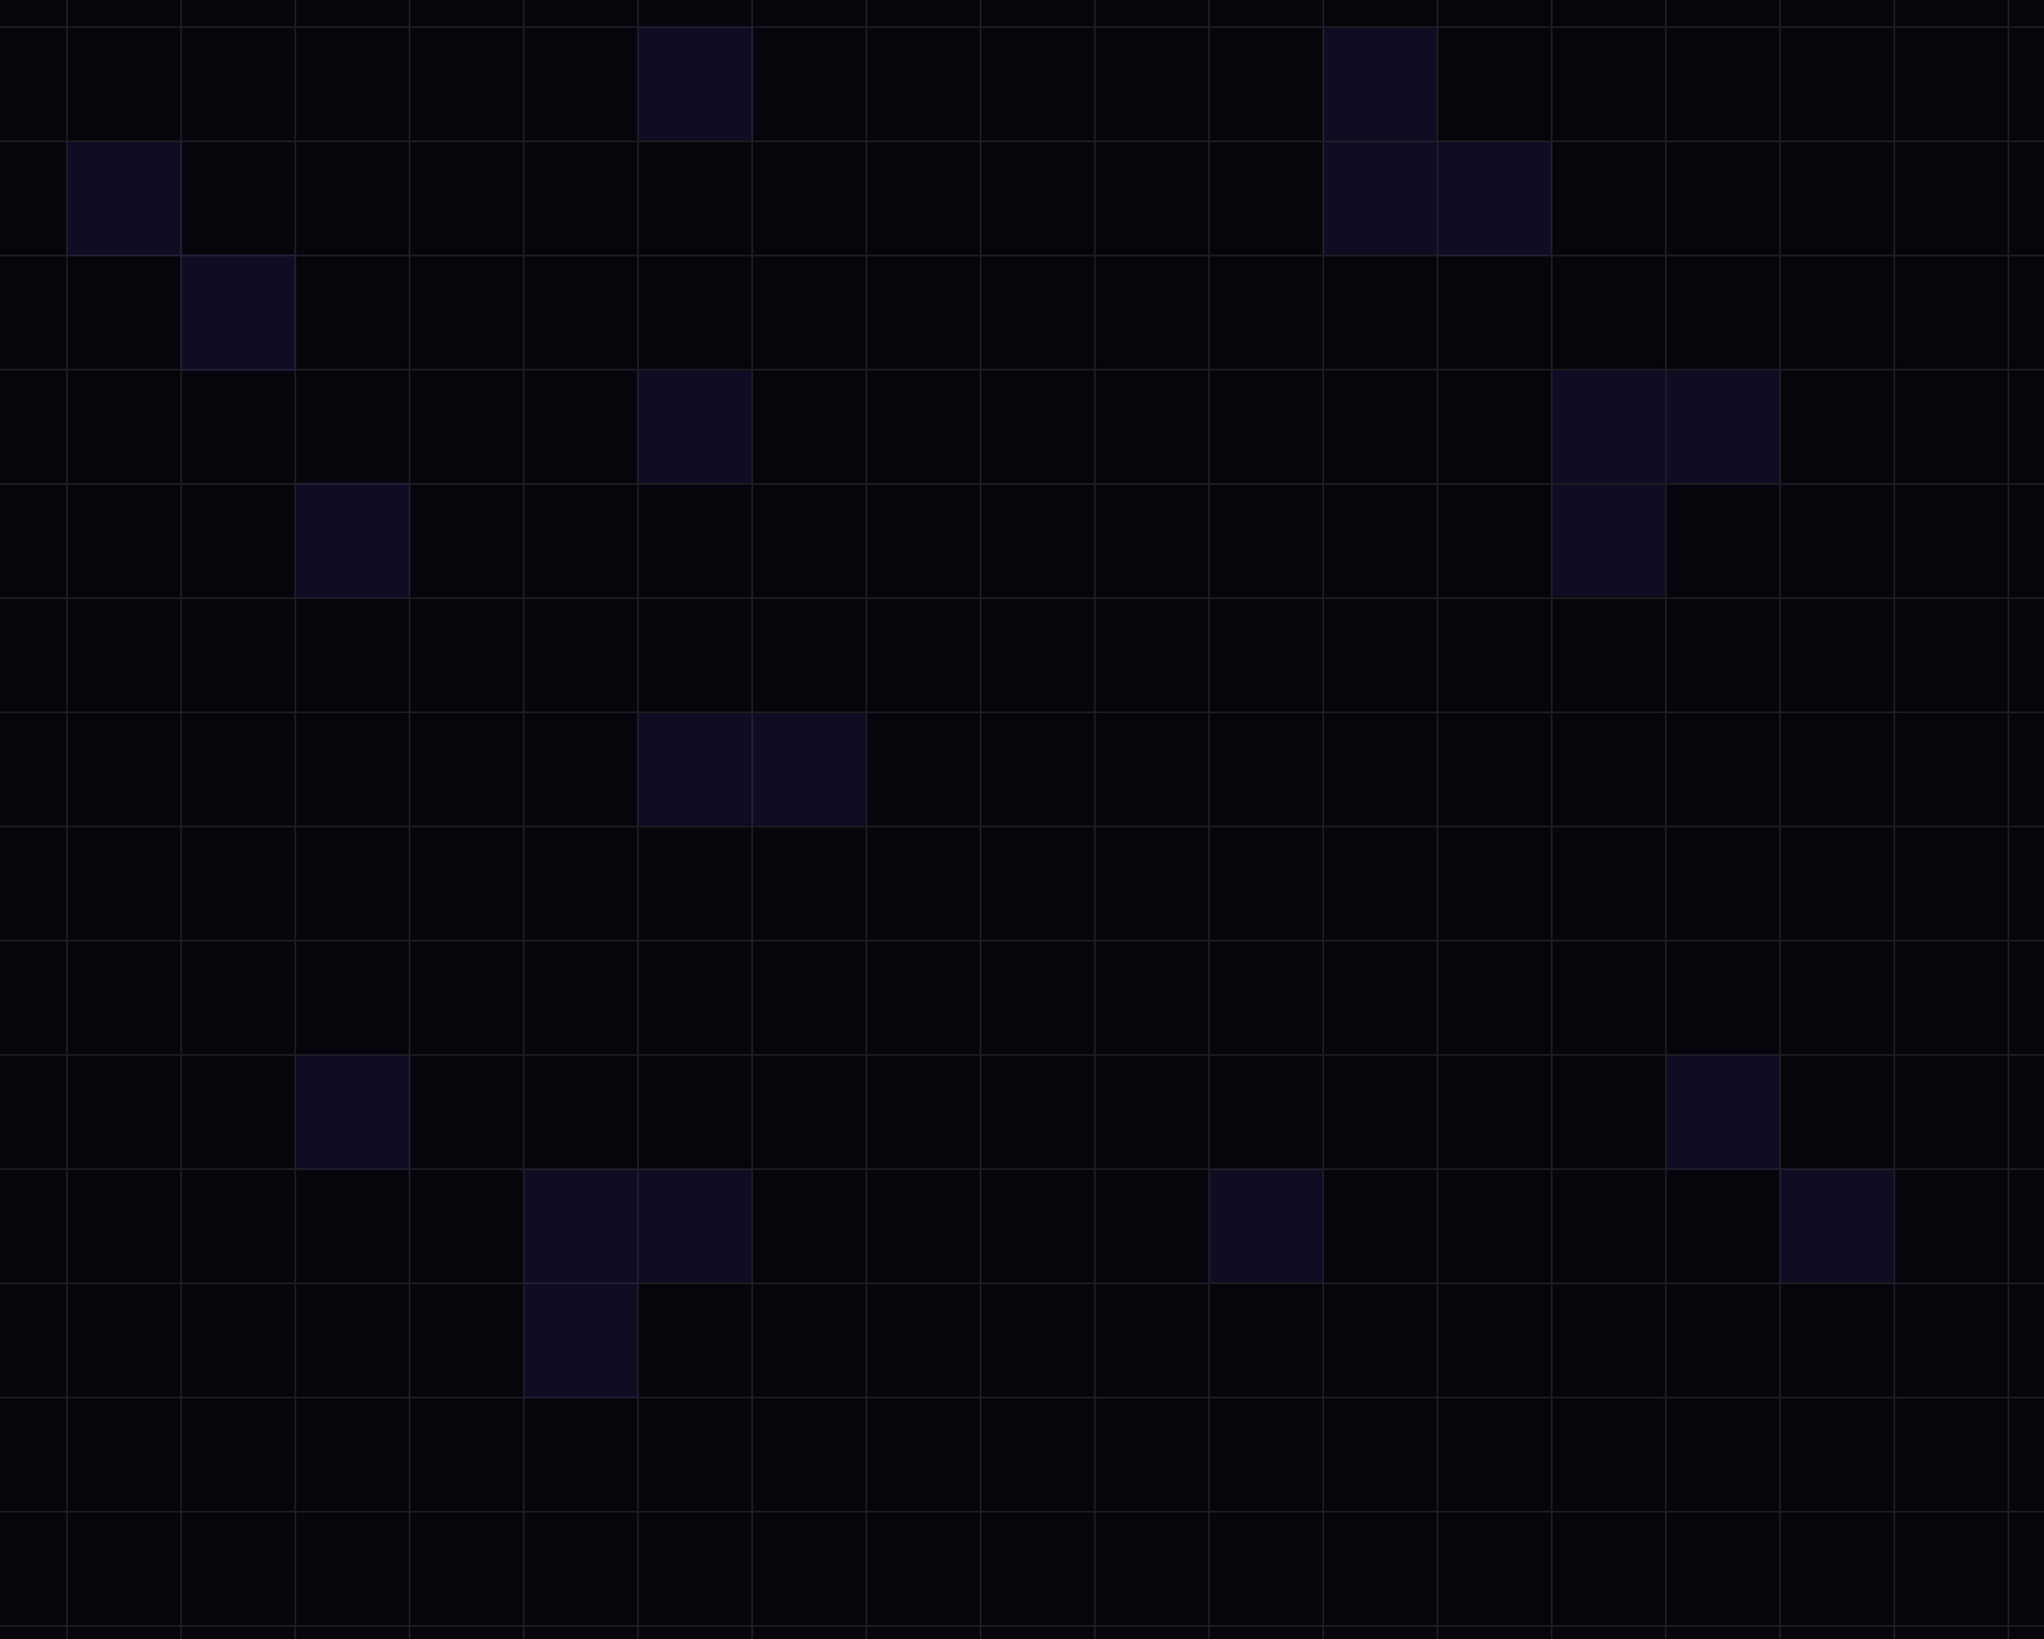
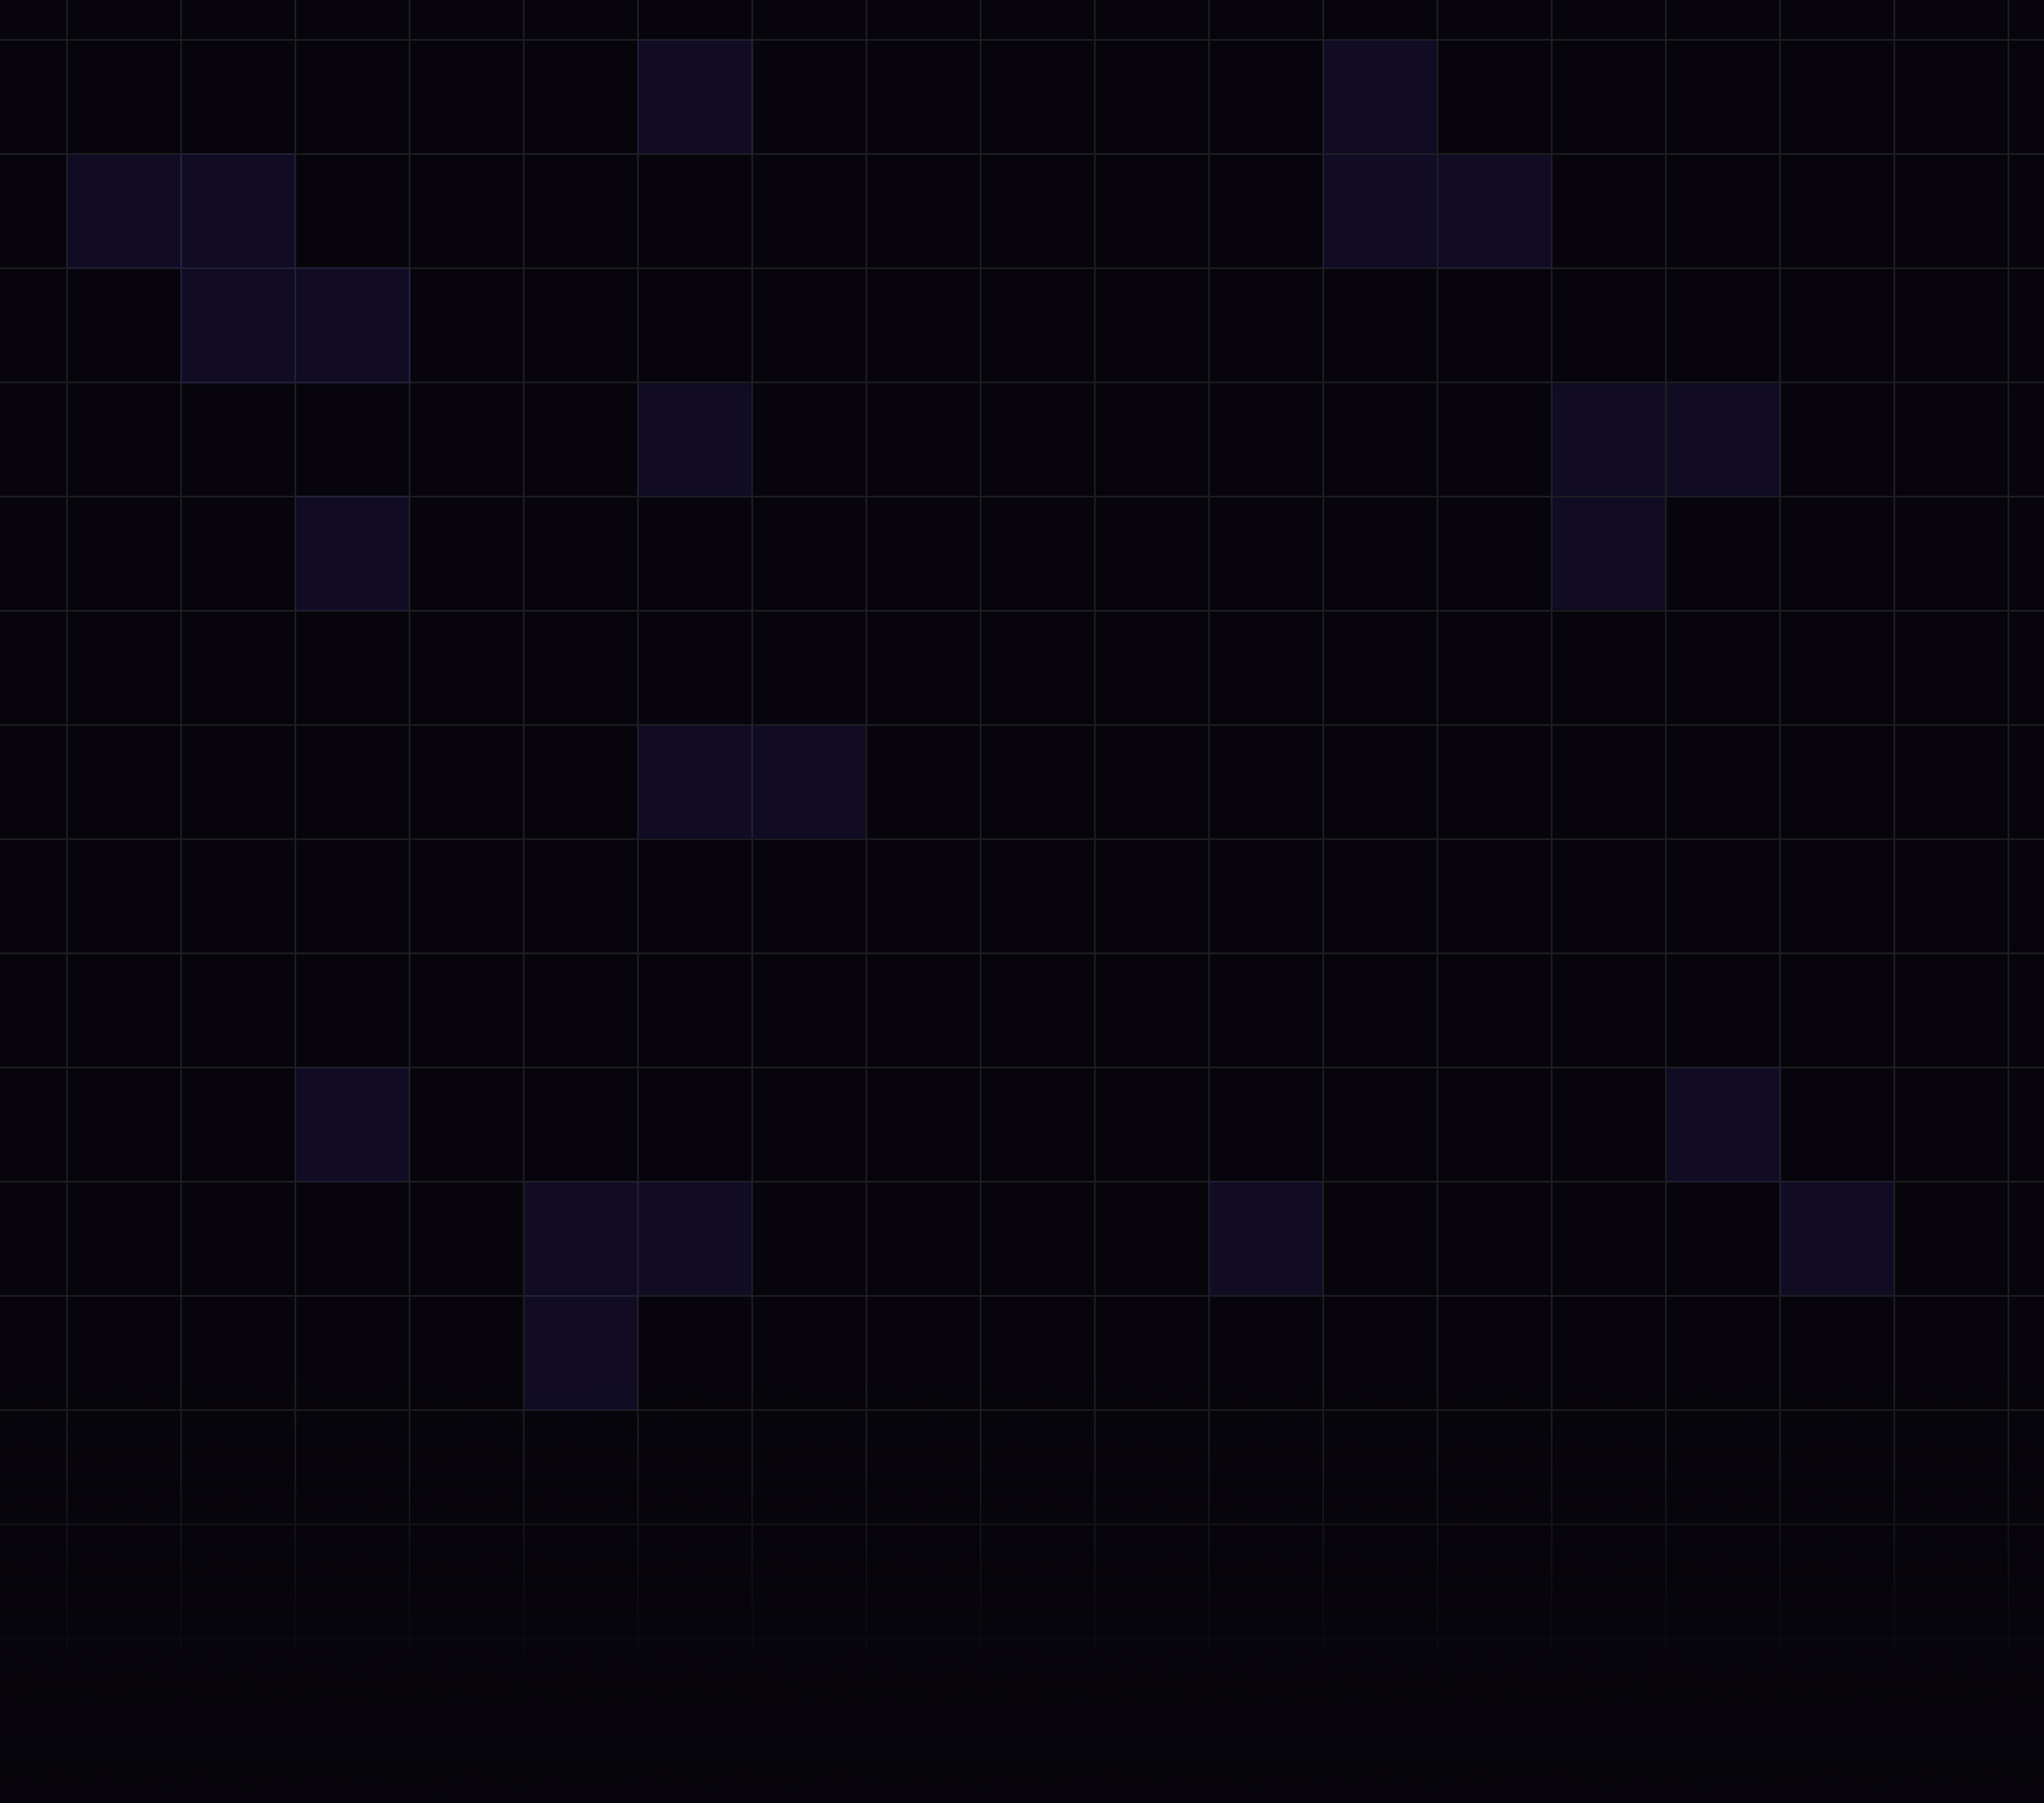
Edited sanity schemas and types

diff --git a/lib/sanity/queries.ts b/lib/sanity/queries.ts
@@ -1,0 +1,122 @@
+import { sanityClient } from './client'
+
+export interface SanitySkill {
+  _id: string
+  name: string
+}
+
+export interface SanityMember {
+  _id: string
+  name: string
+  role: string
+  company: string
+  avatar: string
+  twitter: string
+  skills: SanitySkill[]
+  achievements: {
+    icon: string
+    title: string
+    description: string
+    year: string
+  }[]
+  isFeatured: boolean
+  displayOrder: number
+}
+
+export interface SanityImageCard {
+  _id: string
+  title: string
+  image: string
+  displayOrder: number
+}
+
+export interface SanityFAQ {
+  _id: string
+  question: string
+  answer: string
+  displayOrder: number
+}
+
+// QUERIES
+const MEMBERS_QUERY = `*[_type == "member"] | order(displayOrder asc) {
+  _id,
+  name,
+  role,
+  company,
+  "avatar": avatar.asset->url,
+  twitter,
+  "skills": skills[]-> { _id, name },
+  achievements,
+  isFeatured,
+  displayOrder
+}`
+
+const FEATURED_MEMBERS_QUERY = `*[_type == "member" && isFeatured == true] | order(displayOrder asc) {
+  _id,
+  name,
+  role,
+  company,
+  "avatar": avatar.asset->url,
+  twitter,
+  "skills": skills[]-> { _id, name },
+  achievements,
+  isFeatured,
+  displayOrder
+}`
+
+const SKILLS_QUERY = `*[_type == "skill"] | order(name asc) {
+  _id,
+  name
+}`
+
+const IMAGE_CARDS_QUERY = `*[_type == "imageCard"] | order(displayOrder asc) {
+  _id,
+  title,
+  "image": image.asset->url + "?w=600&h=320&fit=crop&q=75&auto=format",
+  displayOrder
+}`
+
+const FAQ_QUERY = `*[_type == "faq"] | order(displayOrder asc) {
+  _id,
+  question,
+  answer,
+  displayOrder
+}`
+
+export async function getAllMembers(): Promise<SanityMember[]> {
+  return sanityClient.fetch(MEMBERS_QUERY)
+}
+
+export async function getFeaturedMembers(): Promise<SanityMember[]> {
+  return sanityClient.fetch(FEATURED_MEMBERS_QUERY)
+}
+
+export async function getAllSkills(): Promise<SanitySkill[]> {
+  return sanityClient.fetch(SKILLS_QUERY)
+}
+
+export async function getImageCards(): Promise<SanityImageCard[]> {
+  return sanityClient.fetch(IMAGE_CARDS_QUERY)
+}
+
+export async function getFAQs(): Promise<SanityFAQ[]> {
+  return sanityClient.fetch(FAQ_QUERY, {}, { next: { revalidate: 3600 } })
+}
+
+export function mapSanityMember(member: SanityMember, index: number) {
+  return {
+    id: index,
+    name: member.name,
+    role: member.role ?? '',
+    company: member.company ?? '',
+    avatar: member.avatar ?? '',
+    twitter: member.twitter ?? '',
+    skills: member.skills?.map((s) => s.name) ?? [],
+    achievements: member.achievements ?? [],
+    isFeatured: member.isFeatured ?? false,
+  }
+}
+
+export function mapSanityMembers(members: SanityMember[]) {
+  return members.map(mapSanityMember)
+}

diff --git a/sanity/schemaTypes/memberType.ts b/sanity/schemaTypes/memberType.ts
@@ -20,32 +20,26 @@ export const memberType = defineType({
     defineField({
       name: 'company',
       title: 'Company',
-      type: 'string',        // e.g. "Freelance"
+      type: 'string',
     }),
     defineField({
       name: 'avatar',
       title: 'Avatar',
       type: 'image',
-      options: { hotspot: true },   // lets you crop focal point
+      options: { hotspot: true }, 
       validation: Rule => Rule.required()
     }),
     defineField({
       name: 'twitter',
       title: 'Twitter / X Handle',
-      type: 'string',        // store as "@handle"
+      type: 'string',
       validation: Rule => Rule.required()
     }),
     defineField({
         name: 'skills',
         title: 'Skills',
         type: 'array',
-        of: [{ type: 'reference', to: [{ type: 'skill' }] }],
-      }),
-      defineField({
-        name: 'badges',
-        title: 'Badges',
-        type: 'array',
-        of: [{ type: 'reference', to: [{ type: 'badge' }] }],
+        of: [{ type: 'reference', to: [{ type: 'skill' }], validation: Rule => Rule.required()}],
       }),
     defineField({
       name: 'achievements',
@@ -55,9 +49,9 @@ export const memberType = defineType({
         {
           type: 'object',
           fields: [
-            defineField({ name: 'icon',        title: 'Icon (emoji)',   type: 'string' }),
+            defineField({ name: 'image',        title: 'Achievement Image (Optional)',   type: 'image', options: { hotspot: true} }),
             defineField({ name: 'title',       title: 'Title',          type: 'string', validation: Rule => Rule.required() }),
-            defineField({ name: 'description', title: 'Description',    type: 'text',   rows: 2 }),
+            defineField({ name: 'description', title: 'Description (Optional)',    type: 'text',   rows: 2 }),
             defineField({ name: 'year',        title: 'Year',           type: 'string' }),
           ],
           preview: {

diff --git a/sanity/schemaTypes/faqType.ts b/sanity/schemaTypes/faqType.ts
@@ -1,0 +1,37 @@
+import { defineField, defineType } from 'sanity'
+
+export const faqType = defineType({
+  name: 'faq',
+  title: 'FAQ',
+  type: 'document',
+  fields: [
+    defineField({
+      name: 'question',
+      title: 'Question',
+      type: 'string',
+      validation: Rule => Rule.required()
+    }),
+    defineField({
+      name: 'answer',
+      title: 'Answer',
+      type: 'text',
+      rows: 4,
+      validation: Rule => Rule.required()
+    }),
+    defineField({
+      name: 'displayOrder',
+      title: 'Display Order',
+      type: 'number',
+      description: 'Lower number = appears first',
+      initialValue: 0,
+    }),
+  ],
+  preview: {
+    select: { title: 'question', subtitle: 'answer' }
+  },
+  orderings: [{
+    title: 'Display Order',
+    name: 'displayOrderAsc',
+    by: [{ field: 'displayOrder', direction: 'asc' }]
+  }]
+})

diff --git a/sanity.config.ts b/sanity.config.ts
@@ -9,7 +9,6 @@ import {defineConfig} from 'sanity'
 import {structureTool} from 'sanity/structure'
 import {memberType}from './sanity/schemaTypes/memberType'
 import { skillType } from './sanity/schemaTypes/skillType'
-import { badgeType } from './sanity/schemaTypes/badgeType'
 
 // Go to https://www.sanity.io/docs/api-versioning to learn how API versioning works
 import {apiVersion, dataset, projectId} from './sanity/env'
@@ -28,4 +27,7 @@ export default defineConfig({
     // https://www.sanity.io/docs/the-vision-plugin
     visionTool({defaultApiVersion: apiVersion}),
   ],
+  images: {
+    domains: ['cdn.sanity.io'],
+  },
 })

diff --git a/sanity/schemaTypes/index.ts b/sanity/schemaTypes/index.ts
@@ -1,9 +1,9 @@
 import { type SchemaTypeDefinition } from 'sanity'
-import {postType} from './postType'
-import { badgeType } from './badgeType'
 import { skillType } from './skillType'
 import { memberType } from './memberType'
+import { imageCardType } from './imageCard'
+import { faqType } from './faqType'
 
 export const schema: { types: SchemaTypeDefinition[] } = {
-  types: [memberType, badgeType, skillType, postType],
+  types: [memberType, skillType, imageCardType, faqType],
 }

diff --git a/lib/sanity/client.ts b/lib/sanity/client.ts
@@ -1,0 +1,12 @@
+import { createClient } from 'next-sanity'
+import { apiVersion, dataset, projectId } from '@/sanity/env'
+
+export const sanityClient = createClient({
+    projectId,
+    dataset,
+    apiVersion,
+    useCdn: false,
+  })
+
+  console.log('Sanity Project ID:', process.env.NEXT_PUBLIC_SANITY_PROJECT_ID)
+  console.log('Sanity Dataset:', process.env.NEXT_PUBLIC_SANITY_DATASET)
